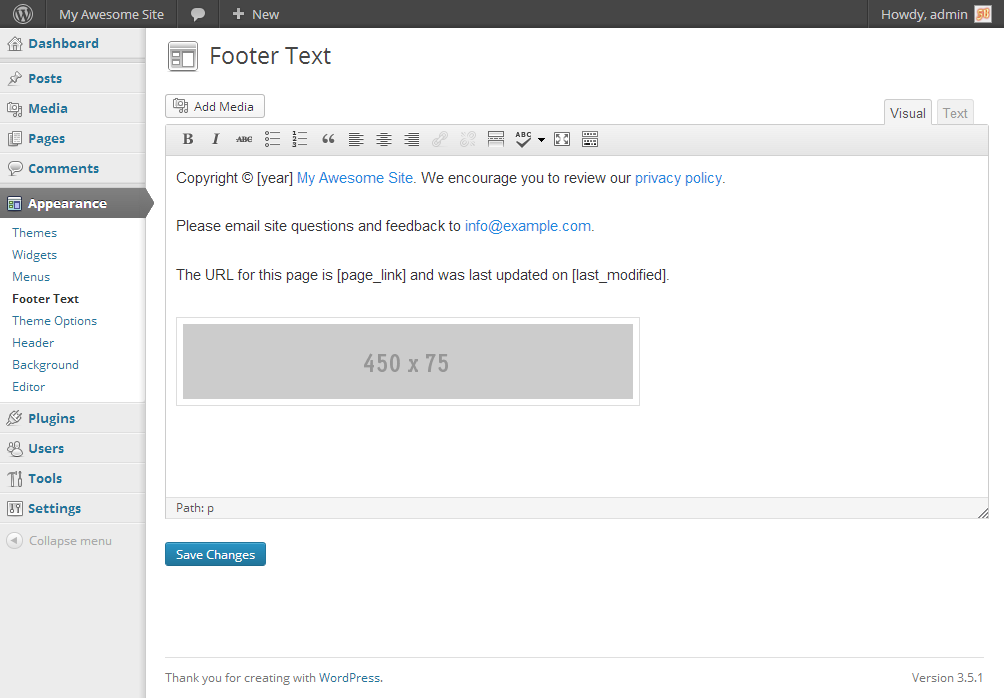
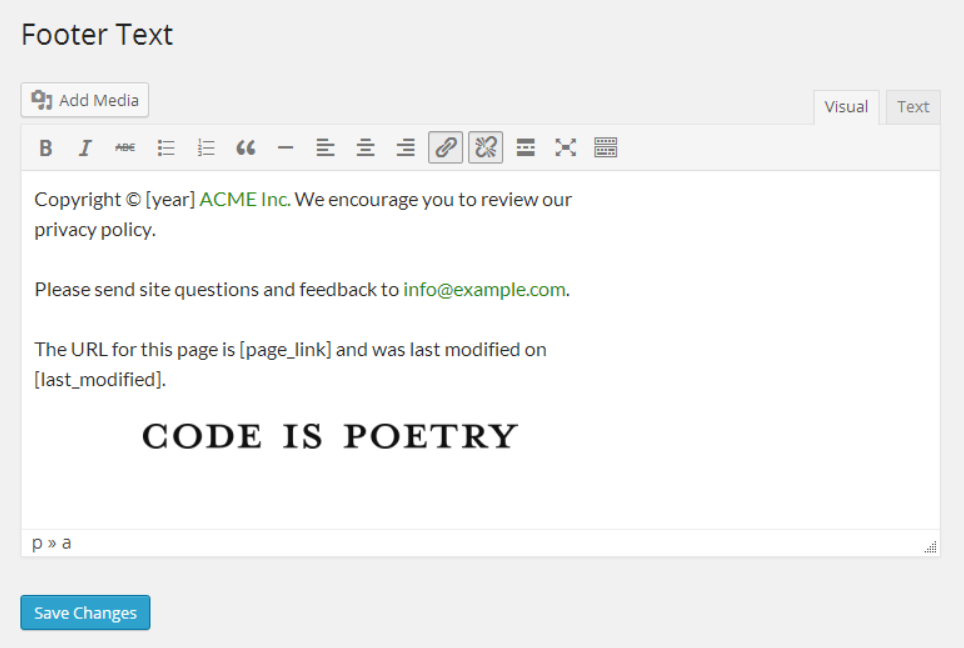
Update screenshots

diff --git a/README.md b/README.md
@@ -63,5 +63,5 @@ This works the same as calling the `footer_text()` function, and any of the thre
 ### Editing the footer text in the dashboard
 ![Editing the footer text in the dashboard](screenshot-1.png "Editing the footer text in the dashboard")
 
-### Previewing the footer text on the Twenty Eleven theme
-![Previewing the footer text on the Twenty Eleven theme](screenshot-2.png "Previewing the footer text on the Twenty Eleven theme")
+### Previewing the footer text on the Twenty Thirteen theme
+![Previewing the footer text on the Twenty Thirteen theme](screenshot-2.png "Previewing the footer text on the Twenty Thirteen theme")
